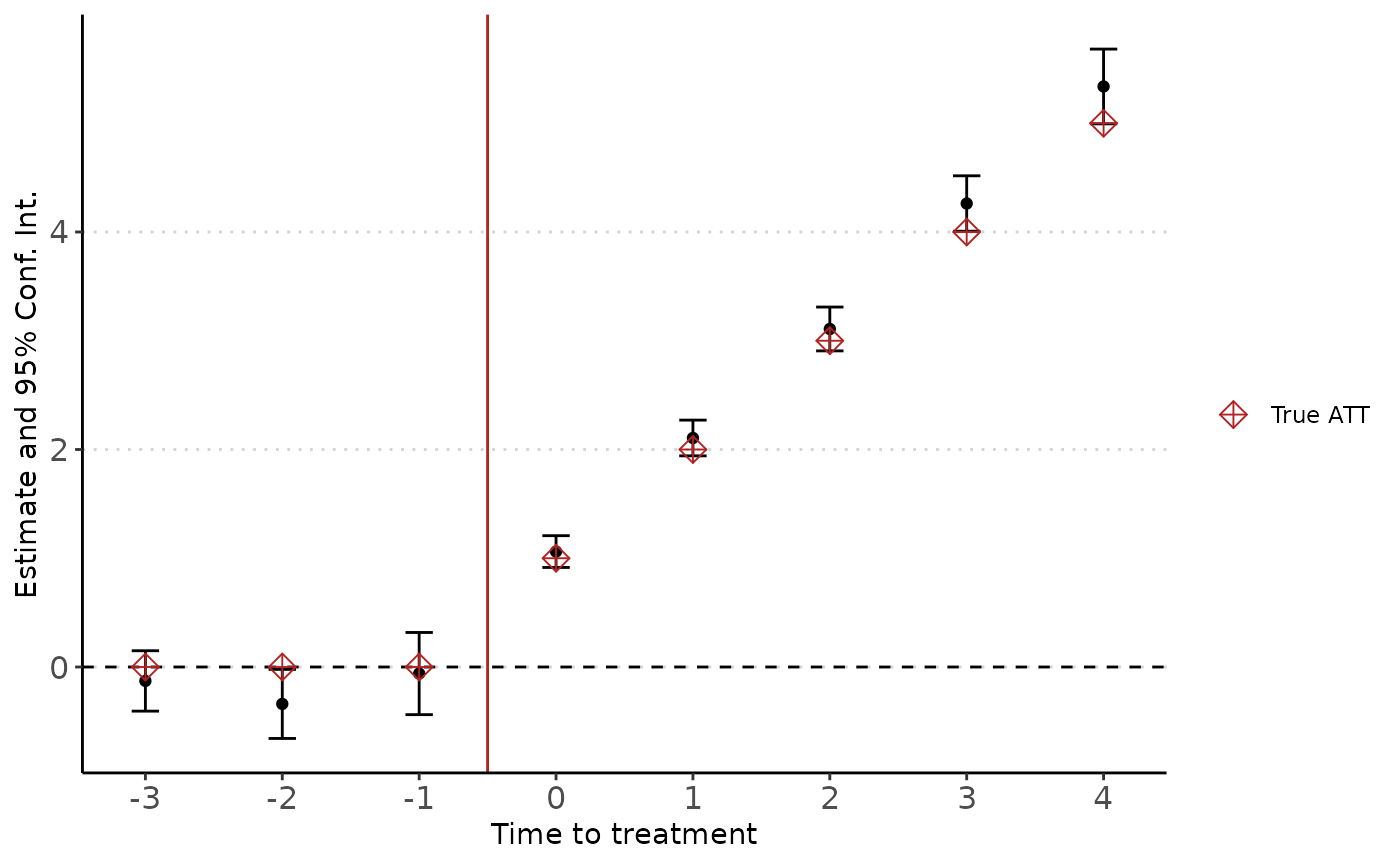
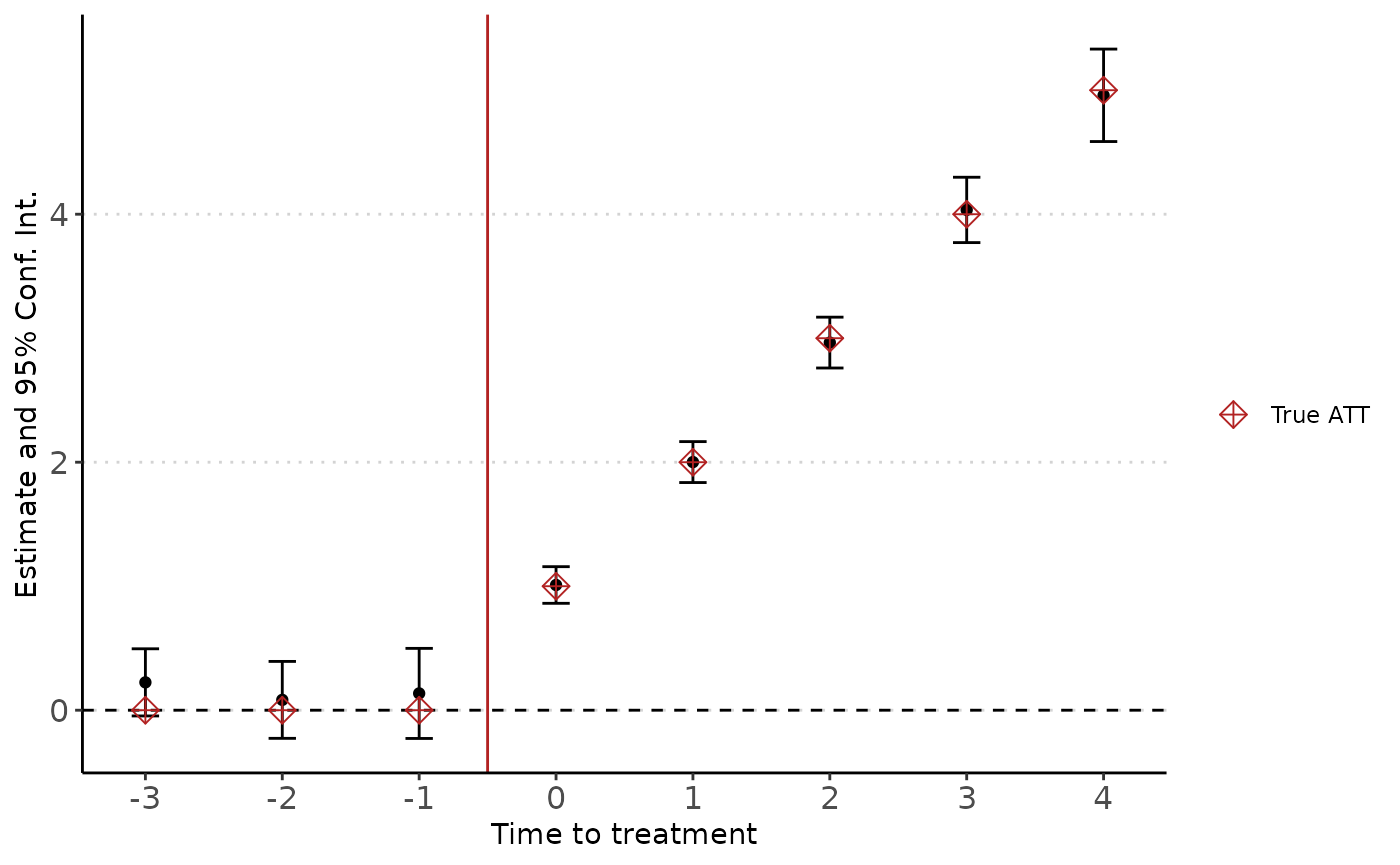
Built site for didImputation: 0.0.4@5769a41

diff --git a/articles/Getting_started.html b/articles/Getting_started.html
@@ -175,33 +175,33 @@
 <span class="co">#&gt; Counterfactual model:  y ~ 0 | i + t </span>
 <span class="co">#&gt; Number of cohorts:  4 </span>
 <span class="co">#&gt; Observations: 12000 </span>
-<span class="co">#&gt; |-Treated:    5677 </span>
-<span class="co">#&gt; |-Untreated:  6323 </span>
+<span class="co">#&gt; |-Treated:    5716 </span>
+<span class="co">#&gt; |-Untreated:  6284 </span>
 <span class="co">#&gt;       Estimate Std. Error t value Pr(&gt;|t|) </span>
-<span class="co">#&gt; k::-3 -0.128   0.142      -0.904  0.366    </span>
-<span class="co">#&gt; k::-2 -0.339   0.162      -2.095  0.036**  </span>
-<span class="co">#&gt; k::-1 -0.060   0.193      -0.313  0.755    </span>
-<span class="co">#&gt; k::0   1.061   0.075      14.239  &lt;0.001***</span>
-<span class="co">#&gt; k::1   2.106   0.084      25.113  &lt;0.001***</span>
-<span class="co">#&gt; k::2   3.108   0.103      30.227  &lt;0.001***</span>
-<span class="co">#&gt; k::3   4.262   0.130      32.786  &lt;0.001***</span>
-<span class="co">#&gt; k::4   5.338   0.175      30.433  &lt;0.001***</span>
+<span class="co">#&gt; k::-3 0.225    0.138       1.625  0.104    </span>
+<span class="co">#&gt; k::-2 0.083    0.158       0.527  0.599    </span>
+<span class="co">#&gt; k::-1 0.135    0.185       0.731  0.465    </span>
+<span class="co">#&gt; k::0  1.010    0.075      13.395  &lt;0.001***</span>
+<span class="co">#&gt; k::1  2.001    0.084      23.760  &lt;0.001***</span>
+<span class="co">#&gt; k::2  2.965    0.105      28.345  &lt;0.001***</span>
+<span class="co">#&gt; k::3  4.035    0.134      30.007  &lt;0.001***</span>
+<span class="co">#&gt; k::4  4.959    0.190      26.069  &lt;0.001***</span>
 <span class="co">#&gt; ---</span>
 <span class="co">#&gt; Signif. Code: 0 '***' 0.01 '**' 0.05 '*' 0.1 '' 1 </span>
 <span class="co">#&gt; Wald stats for pre-trends:</span>
-<span class="co">#&gt; Wald (joint nullity): stat = 4.74668, p = 0.002614, on 3 and 6,314 DoF, VCOV: Clustered (i).</span></code></pre></div>
+<span class="co">#&gt; Wald (joint nullity): stat = 1.2115, p = 0.303825, on 3 and 6,275 DoF, VCOV: Clustered (i).</span></code></pre></div>
 <p>You can extract the coefficients table if you want to build your own plot or table.</p>
 <div class="sourceCode" id="cb6"><pre class="downlit sourceCode r">
 <code class="sourceCode R"><span class="va">est</span><span class="op">$</span><span class="va">coeftable</span>
-<span class="co">#&gt;          Estimate Std. Error    t value      Pr(&gt;|t|)</span>
-<span class="co">#&gt; k::-3 -0.12811800  0.1416524 -0.9044533  3.658641e-01</span>
-<span class="co">#&gt; k::-2 -0.33947383  0.1620211 -2.0952452  3.627474e-02</span>
-<span class="co">#&gt; k::-1 -0.06028321  0.1927641 -0.3127304  7.545181e-01</span>
-<span class="co">#&gt; k::0   1.06148784  0.0745491 14.2387753  5.264153e-46</span>
-<span class="co">#&gt; k::1   2.10591886  0.0838567 25.1133050 3.559124e-139</span>
-<span class="co">#&gt; k::2   3.10832140  0.1028326 30.2270071 1.046467e-200</span>
-<span class="co">#&gt; k::3   4.26186715  0.1299922 32.7855726 9.454472e-236</span>
-<span class="co">#&gt; k::4   5.33815489  0.1754071 30.4329381 2.014801e-203</span></code></pre></div>
+<span class="co">#&gt;         Estimate Std. Error    t value      Pr(&gt;|t|)</span>
+<span class="co">#&gt; k::-3 0.22452247 0.13816495  1.6250320  1.043134e-01</span>
+<span class="co">#&gt; k::-2 0.08333174 0.15825858  0.5265543  5.985615e-01</span>
+<span class="co">#&gt; k::-1 0.13544823 0.18533088  0.7308454  4.649592e-01</span>
+<span class="co">#&gt; k::0  1.00983018 0.07538679 13.3953194  6.439844e-41</span>
+<span class="co">#&gt; k::1  2.00110261 0.08422251 23.7597120 8.720127e-125</span>
+<span class="co">#&gt; k::2  2.96478863 0.10459647 28.3450165 9.641696e-177</span>
+<span class="co">#&gt; k::3  4.03464313 0.13445590 30.0071852 7.908450e-198</span>
+<span class="co">#&gt; k::4  4.95892963 0.19022448 26.0688294 8.230391e-150</span></code></pre></div>
 <p>Finally, we can plot the coefficients from the fully dynamic model using the <code>didplot</code> function (note that you can choose the confidence interval level to report). The results are very close to the true effects:</p>
 <div class="sourceCode" id="cb7"><pre class="downlit sourceCode r">
 <code class="sourceCode R"><span class="fu"><a href="../reference/didplot.html">didplot</a></span><span class="op">(</span><span class="va">est</span><span class="op">)</span> <span class="op">+</span>
@@ -224,21 +224,21 @@
 <span class="co">#&gt; Counterfactual model:  y ~ 0 | i + t </span>
 <span class="co">#&gt; Number of cohorts:  4 </span>
 <span class="co">#&gt; Observations: 12000 </span>
-<span class="co">#&gt; |-Treated:    5677 </span>
-<span class="co">#&gt; |-Untreated:  6323 </span>
+<span class="co">#&gt; |-Treated:    5716 </span>
+<span class="co">#&gt; |-Untreated:  6284 </span>
 <span class="co">#&gt;       Estimate Std. Error t value Pr(&gt;|t|) </span>
-<span class="co">#&gt; k::-3 -0.128   0.142      -0.904  0.366    </span>
-<span class="co">#&gt; k::-2 -0.339   0.162      -2.095  0.036**  </span>
-<span class="co">#&gt; k::-1 -0.060   0.193      -0.313  0.755    </span>
-<span class="co">#&gt; k::0   1.061   0.075      14.239  &lt;0.001***</span>
-<span class="co">#&gt; k::1   2.106   0.084      25.113  &lt;0.001***</span>
-<span class="co">#&gt; k::2   3.108   0.103      30.227  &lt;0.001***</span>
-<span class="co">#&gt; k::3   4.262   0.130      32.786  &lt;0.001***</span>
-<span class="co">#&gt; k::4   5.338   0.175      30.433  &lt;0.001***</span>
+<span class="co">#&gt; k::-3 0.225    0.138       1.625  0.104    </span>
+<span class="co">#&gt; k::-2 0.083    0.158       0.527  0.599    </span>
+<span class="co">#&gt; k::-1 0.135    0.185       0.731  0.465    </span>
+<span class="co">#&gt; k::0  1.010    0.075      13.395  &lt;0.001***</span>
+<span class="co">#&gt; k::1  2.001    0.084      23.760  &lt;0.001***</span>
+<span class="co">#&gt; k::2  2.965    0.105      28.345  &lt;0.001***</span>
+<span class="co">#&gt; k::3  4.035    0.134      30.007  &lt;0.001***</span>
+<span class="co">#&gt; k::4  4.959    0.190      26.069  &lt;0.001***</span>
 <span class="co">#&gt; ---</span>
 <span class="co">#&gt; Signif. Code: 0 '***' 0.01 '**' 0.05 '*' 0.1 '' 1 </span>
 <span class="co">#&gt; Wald stats for pre-trends:</span>
-<span class="co">#&gt; Wald (joint nullity): stat = 4.74668, p = 0.002614, on 3 and 6,314 DoF, VCOV: Clustered (i).</span></code></pre></div>
+<span class="co">#&gt; Wald (joint nullity): stat = 1.2115, p = 0.303825, on 3 and 6,275 DoF, VCOV: Clustered (i).</span></code></pre></div>
 </div>
 <div id="including-other-fixed-effects" class="section level2">
 <h2 class="hasAnchor">
@@ -262,21 +262,21 @@
 <span class="co">#&gt; Counterfactual model:  y ~ 0 | i + t + hdfefactor </span>
 <span class="co">#&gt; Number of cohorts:  4 </span>
 <span class="co">#&gt; Observations: 12000 </span>
-<span class="co">#&gt; |-Treated:    5437 </span>
-<span class="co">#&gt; |-Untreated:  6563 </span>
+<span class="co">#&gt; |-Treated:    5554 </span>
+<span class="co">#&gt; |-Untreated:  6446 </span>
 <span class="co">#&gt;       Estimate Std. Error t value Pr(&gt;|t|) </span>
-<span class="co">#&gt; k::-3 -0.035   0.140      -0.252  0.801    </span>
-<span class="co">#&gt; k::-2 -0.096   0.157      -0.611  0.541    </span>
-<span class="co">#&gt; k::-1 -0.010   0.181      -0.053  0.958    </span>
-<span class="co">#&gt; k::0   0.992   0.076      13.032  &lt;0.001***</span>
-<span class="co">#&gt; k::1   2.068   0.084      24.596  &lt;0.001***</span>
-<span class="co">#&gt; k::2   3.073   0.101      30.289  &lt;0.001***</span>
-<span class="co">#&gt; k::3   4.065   0.131      31.083  &lt;0.001***</span>
-<span class="co">#&gt; k::4   5.182   0.183      28.270  &lt;0.001***</span>
+<span class="co">#&gt; k::-3  0.070   0.146       0.483  0.629    </span>
+<span class="co">#&gt; k::-2 -0.144   0.161      -0.890  0.373    </span>
+<span class="co">#&gt; k::-1 -0.143   0.183      -0.783  0.434    </span>
+<span class="co">#&gt; k::0   1.026   0.075      13.707  &lt;0.001***</span>
+<span class="co">#&gt; k::1   1.938   0.082      23.557  &lt;0.001***</span>
+<span class="co">#&gt; k::2   2.878   0.102      28.134  &lt;0.001***</span>
+<span class="co">#&gt; k::3   3.848   0.129      29.746  &lt;0.001***</span>
+<span class="co">#&gt; k::4   5.068   0.178      28.497  &lt;0.001***</span>
 <span class="co">#&gt; ---</span>
 <span class="co">#&gt; Signif. Code: 0 '***' 0.01 '**' 0.05 '*' 0.1 '' 1 </span>
 <span class="co">#&gt; Wald stats for pre-trends:</span>
-<span class="co">#&gt; Wald (joint nullity): stat = 0.420504, p = 0.738298, on 3 and 6,515 DoF, VCOV: Clustered (i).</span></code></pre></div>
+<span class="co">#&gt; Wald (joint nullity): stat = 1.26591, p = 0.284247, on 3 and 6,398 DoF, VCOV: Clustered (i).</span></code></pre></div>
 </div>
 <div id="including-continuous-controls" class="section level2">
 <h2 class="hasAnchor">
@@ -300,28 +300,28 @@
 <span class="co">#&gt; Counterfactual model:  y ~ x1 | i + t </span>
 <span class="co">#&gt; Number of cohorts:  8 </span>
 <span class="co">#&gt; Observations: 20000 </span>
-<span class="co">#&gt; |-Treated:    9650 </span>
-<span class="co">#&gt; |-Untreated:  10350 </span>
+<span class="co">#&gt; |-Treated:    9685 </span>
+<span class="co">#&gt; |-Untreated:  10315 </span>
 <span class="co">#&gt;       Estimate Std. Error t value Pr(&gt;|t|) </span>
-<span class="co">#&gt; k::-5 0.099    0.098        1.011 0.312    </span>
-<span class="co">#&gt; k::-4 0.018    0.103        0.171 0.864    </span>
-<span class="co">#&gt; k::-3 0.042    0.116        0.361 0.718    </span>
-<span class="co">#&gt; k::-2 0.078    0.130        0.596 0.552    </span>
-<span class="co">#&gt; k::-1 0.127    0.145        0.881 0.378    </span>
-<span class="co">#&gt; x1    1.995    0.011      178.710 &lt;0.001***</span>
-<span class="co">#&gt; k::0  0.998    0.063       15.923 &lt;0.001***</span>
-<span class="co">#&gt; k::1  1.918    0.068       28.387 &lt;0.001***</span>
-<span class="co">#&gt; k::2  2.924    0.075       39.046 &lt;0.001***</span>
-<span class="co">#&gt; k::3  3.952    0.085       46.660 &lt;0.001***</span>
-<span class="co">#&gt; k::4  4.869    0.096       50.468 &lt;0.001***</span>
-<span class="co">#&gt; k::5  5.835    0.113       51.616 &lt;0.001***</span>
-<span class="co">#&gt; k::6  6.773    0.135       50.023 &lt;0.001***</span>
-<span class="co">#&gt; k::7  7.707    0.175       44.056 &lt;0.001***</span>
-<span class="co">#&gt; k::8  8.545    0.244       34.997 &lt;0.001***</span>
+<span class="co">#&gt; k::-5 0.117    0.097        1.209 0.227    </span>
+<span class="co">#&gt; k::-4 0.086    0.106        0.811 0.418    </span>
+<span class="co">#&gt; k::-3 0.044    0.116        0.382 0.702    </span>
+<span class="co">#&gt; k::-2 0.122    0.127        0.959 0.338    </span>
+<span class="co">#&gt; k::-1 0.131    0.141        0.930 0.352    </span>
+<span class="co">#&gt; x1    1.982    0.011      187.271 &lt;0.001***</span>
+<span class="co">#&gt; k::0  1.016    0.064       15.889 &lt;0.001***</span>
+<span class="co">#&gt; k::1  1.972    0.068       29.057 &lt;0.001***</span>
+<span class="co">#&gt; k::2  2.949    0.074       40.026 &lt;0.001***</span>
+<span class="co">#&gt; k::3  4.009    0.083       48.047 &lt;0.001***</span>
+<span class="co">#&gt; k::4  5.037    0.096       52.625 &lt;0.001***</span>
+<span class="co">#&gt; k::5  5.967    0.111       53.858 &lt;0.001***</span>
+<span class="co">#&gt; k::6  6.915    0.130       53.121 &lt;0.001***</span>
+<span class="co">#&gt; k::7  8.138    0.164       49.706 &lt;0.001***</span>
+<span class="co">#&gt; k::8  9.017    0.241       37.427 &lt;0.001***</span>
 <span class="co">#&gt; ---</span>
 <span class="co">#&gt; Signif. Code: 0 '***' 0.01 '**' 0.05 '*' 0.1 '' 1 </span>
 <span class="co">#&gt; Wald stats for pre-trends:</span>
-<span class="co">#&gt; Wald (joint nullity): stat = 5,329.2, p &lt; 2.2e-16, on 6 and 10,334 DoF, VCOV: Clustered (i).</span></code></pre></div>
+<span class="co">#&gt; Wald (joint nullity): stat = 5,849.3, p &lt; 2.2e-16, on 6 and 10,299 DoF, VCOV: Clustered (i).</span></code></pre></div>
 </div>
 <div id="heterogeneity" class="section level2">
 <h2 class="hasAnchor">
